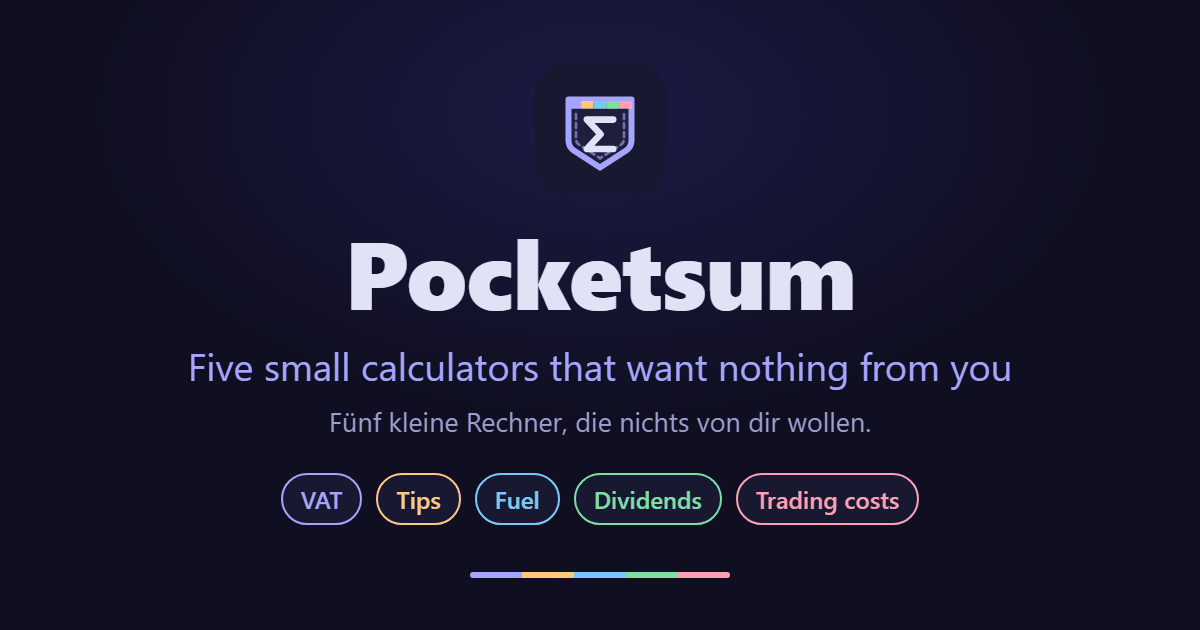
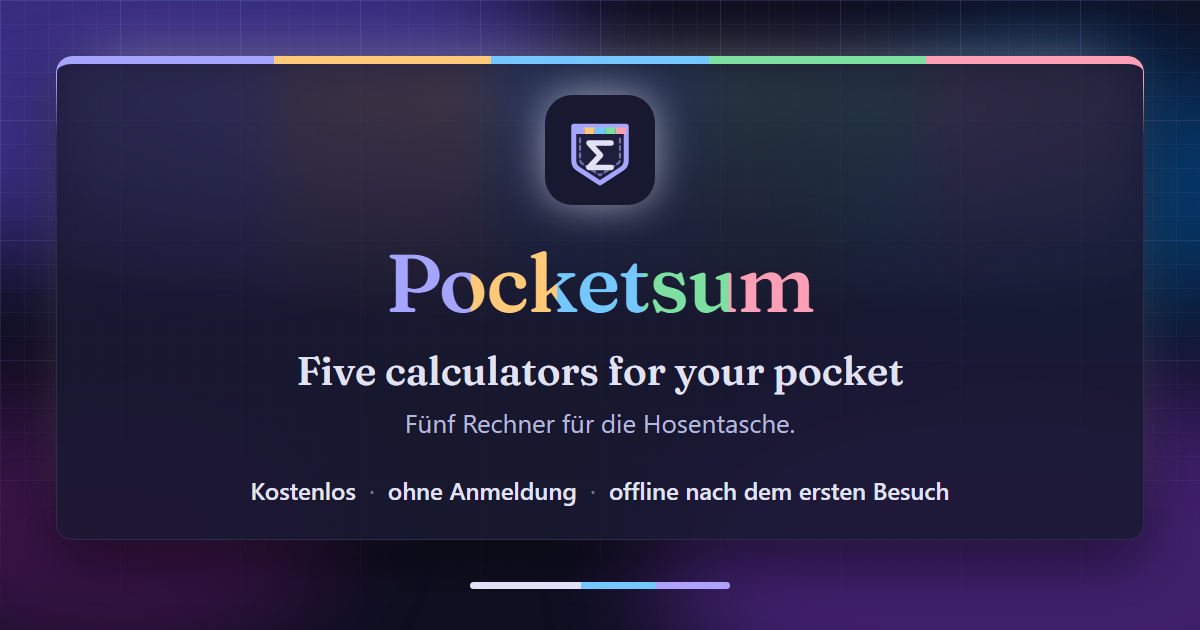
Link-Vorschau im neuen Werkstatt-Design (CACHE pocketsum-v7)
og.png, instagram.png und github-social.png aus der gemeinsamen Vorlage der Startseite (tools/promo/make-bilder.mjs, Design vom 02.11.2026), der Alt-Text beschreibt das neue Bild. tools/bilder.mjs warnt jetzt, dass es og.png mit dem alten Entwurf überschreibt. Tests 52/52.

diff --git a/index.html b/index.html
@@ -23,7 +23,7 @@
 <meta property="og:image" content="https://dennismit2n.github.io/pocketsum/og.png">
 <meta property="og:image:width" content="1200">
 <meta property="og:image:height" content="630">
-<meta property="og:image:alt" content="Dark graphic: the Pocketsum icon, a pocket with a sum sign, below it the name “Pocketsum”, the line “Five small calculators that want nothing from you” and the five calculators VAT, tips, fuel, dividends and trading costs.">
+<meta property="og:image:alt" content="Dark graphic: the Pocketsum icon, a pocket with a sum sign, below it the name “Pocketsum”, the line “Five calculators for your pocket” and, smaller, „Fünf Rechner für die Hosentasche.“ At the bottom „Kostenlos, ohne Anmeldung, offline nach dem ersten Besuch“.">
 <meta property="og:locale" content="en_GB">
 <meta property="og:locale:alternate" content="de_DE">
 <meta name="twitter:card" content="summary_large_image">

diff --git a/sw.js b/sw.js
@@ -6,7 +6,7 @@
 'use strict';
 
 // Bei jedem Deploy, der index.html oder eine der Dateien unten ändert, um 1 erhöhen.
-const CACHE = 'pocketsum-v6';
+const CACHE = 'pocketsum-v7';
 
 // Genau die Dateien, die index.html und das Manifest laden. Eine Datei, die es nicht gibt,
 // ließe addAll und damit die ganze Installation scheitern.
